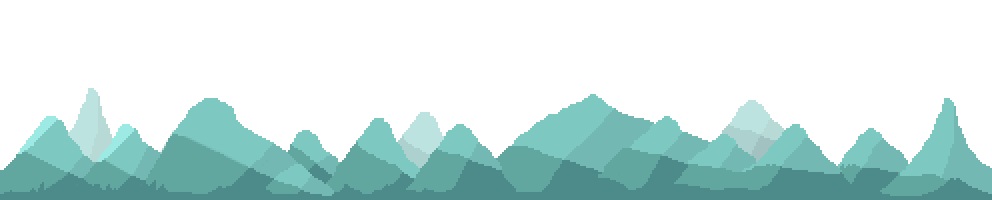
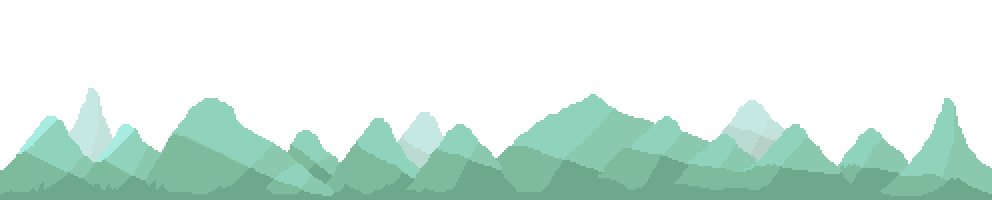
more pages, more styling

Changed region(s): [[0.0, 0.66, 1.0, 1.0]]

diff --git a/client/pages/MainPage/index.jsx b/client/pages/MainPage/index.jsx
@@ -1,23 +1,33 @@
 import React from 'react'
 import Read from '../../assets/img/read.gif'
 import KidCoder from '../../assets/img/kid-coder.png'
+import { Link } from 'react-router-dom'
+
 function index() {
   return (
     <>
-    <div className='d-flex main-page-marketing-block align-items-center'>
+    <div className='d-flex main-page-marketing-block main-page-marketing-block-bg-1 align-items-center'>
       <div className='offset-2 col-4'><img src={KidCoder} className='img-fluid'/></div>
       <div className='col-4 ms-4'>
         <h2 className='main-page-h2'>Play and learn</h2>
         Lorem ipsum dolor sit, amet consectetur adipisicing elit. Aliquam in rem inventore, ex temporibus ipsum. Soluta ea corporis quia recusandae laborum quos iure, praesentium assumenda consectetur obcaecati consequuntur laboriosam. Assumenda?
       </div>
     </div>
-    <div className='d-flex main-page-marketing-block'>
+        <div className='d-flex bg-primary-subtle justify-content-center main-page-buttons align-items-center flex-column'>
+          <h3>Begin to play right now!</h3>
+          <div>
+            <Link to='/story'><button type="button" className="btn btn-warning btn-lg me-4 shadow-sm" data-mdb-ripple-color="#c33232"> Try Story Mode </button></Link>
+            <Link to='/fight'><button type="button" className="btn btn-warning btn-lg shadow-sm" data-mdb-ripple-color="#c33232"> Try Fighting Mode </button></Link>
+          </div>
+    </div>
+    <div className='d-flex main-page-marketing-block main-page-marketing-block-bg-2'>
       <div className='offset-2 col-4 me-4'>
         <h2 className='main-page-h2'>Text-Based Coding</h2>
         Lorem ipsum dolor sit, amet consectetur adipisicing elit. Aliquam in rem inventore, ex temporibus ipsum. Soluta ea corporis quia recusandae laborum quos iure, praesentium assumenda consectetur obcaecati consequuntur laboriosam. Assumenda?
       </div>
       <div className='col-4'><img src={Read}/></div>
     </div>
+
     </>
   )
 }

diff --git a/client/assets/css/App.css b/client/assets/css/App.css
@@ -7,22 +7,36 @@ a {
   text-decoration: none;
 }
 
-.logo, .main-page-h1, .main-page-h2 {
+.logo {
   font-family: 'Kdam Thmor Pro', sans-serif;
 }
 
-.main-block {
+
+.main-page-marketing-block {
+  padding: 8rem 0;
+
+}
+
+.main-page-marketing-block-bg-1 {
+  background: url('../img/bg.png');
+  background-position: top right;
+  background-repeat: no-repeat;
+  background-size: contain;
+}
+
+.main-page-marketing-block-bg-2 {
   background: url('../img/footer-main-page-bg.png');
   background-repeat: repeat-x;
   background-position: bottom;
+  background-color: #FFF2DB;
 }
 
-.main-page-marketing-block {
-  margin: 8rem 0;
+.main-page-buttons {
+  padding: 4rem 0;
 }
 
 .bg-footer {
-  background-color: #4d8b8a;
+  background-color: #67AA83;
 }
 
 .main-page-subheading {
@@ -37,7 +51,8 @@ a {
   background-position: center;
 }
 
-h1, h2 {
+h1, h2, h3 {
+  font-family: 'Kdam Thmor Pro', sans-serif;
   margin-bottom: 2rem;
 }
 
@@ -57,24 +72,35 @@ h1, h2 {
 }
 
 .banner {
-  background-color: #dbfbfe;
+  background-image: url('../img/bnr-bg.gif');
+  background-color: #defbfe;
+  background-size: auto;
+  background-repeat: no-repeat;
+  animation: slidein 12s;
+
+  animation-fill-mode: backwards;
+  animation-iteration-count: infinite;
+  animation-direction: normal
 }
 
-@keyframes logo-spin {
-  from {
-    transform: rotate(0deg);
+@keyframes slidein {
+  0% {
+    background-position: -20% 150px;
+
   }
 
-  to {
-    transform: rotate(360deg);
+  50% {
+    background-position: 50% 50px;
+
   }
+
+  100% {
+    background-position: 130% 150px;
+
+  }
+
 }
 
-@media (prefers-reduced-motion: no-preference) {
-  a:nth-of-type(2) .logo {
-    animation: logo-spin infinite 20s linear;
-  }
-}
 
 .card {
   padding: 2em;

diff --git a/client/components/Banner/Banner.jsx b/client/components/Banner/Banner.jsx
@@ -1,5 +1,6 @@
 import React from 'react'
 import Knight from '../../assets/img/knight.gif'
+import { Link } from 'react-router-dom'
 
 function Banner() {
   return (
@@ -10,9 +11,9 @@ function Banner() {
     <h1 className='main-page-h1 text-left'>Learn how to Code<br/> with Koding Kombat</h1>
     <p className='main-page-subheading'>Koding Kombat  is a competitive programming game where two users engage in a battle of wits by answering challenging programming questions.</p> <p className='main-page-subheading'><b>Players take turns tackling a series of coding challenges</b>, ranging from algorithmic puzzles to debugging exercises.</p>
     <div className='d-flex flex-row align-items-center'>
-    <button type="button" className="btn btn-warning btn-lg me-4" data-mdb-ripple-color="#c33232"> Try Story Mode </button>
-    <button type="button" className="btn btn-warning btn-lg me-4" data-mdb-ripple-color="#c33232"> Fighting Mode </button>
-    <a href="/login">Login</a>
+    <Link to={`/story`}><button type="button" className="btn btn-warning btn-lg me-4" data-mdb-ripple-color="#c33232"> Try Story Mode </button></Link>
+    <Link to={`/fight`}><button type="button" className="btn btn-warning btn-lg me-4" data-mdb-ripple-color="#c33232"> Try Fighting Mode </button></Link>
+    <Link to={`/login`}>Login ›</Link>
     </div>
     </div>
     <div className='col-6 h-100'>

diff --git a/client/components/Header/Header.jsx b/client/components/Header/Header.jsx
@@ -39,10 +39,10 @@ export default function Header() {
             </button>
             <div className="collapse navbar-collapse" id="mainNav">
               <div className="navbar-nav ms-auto">
-                <NavLink className="ms-5 nav-link" to="/">
+                <NavLink className="ms-5 nav-link" to="/story">
                   Story Mode
                 </NavLink>
-                <NavLink className="ms-5 nav-link" to="/account">
+                <NavLink className="ms-5 nav-link" to="/fight">
                   Fight Mode
                 </NavLink>
                 <NavLink className="ms-5 nav-link" to="/login">
@@ -50,6 +50,9 @@ export default function Header() {
                 </NavLink>
                 <NavLink className="ms-5 nav-link" to="/register">
                   Register
+                </NavLink>
+                <NavLink className="ms-5 nav-link" to="/account">
+                  Account
                 </NavLink>
               </div>
             </div>

diff --git a/client/App.jsx b/client/App.jsx
@@ -11,6 +11,17 @@ function App() {
       <Route path="/" element={<Layouts.main />}>
         <Route index element={<Pages.MainPage />} />
       </Route>
+      <Route element={<Layouts.fight />}>
+        <Route path="story" element={<Pages.StoryMode />} />
+        <Route path="fight" element={<Pages.FightingMode />} />
+      </Route>
+      <Route element={<Layouts.auth />}>
+        <Route path="login" element={<Pages.Login />} />
+        <Route path="register" element={<Pages.Register />} />
+      </Route>
+      <Route element={<Layouts.account />}>
+        <Route path="account" element={<Pages.AccountPage />} />
+      </Route>
     </Routes>
   )
 }

diff --git a/client/pages/index.jsx b/client/pages/index.jsx
@@ -10,4 +10,4 @@ export { default as FightingMode } from './FightingMode'
 export { default as Leaderboard } from './Leaderboard'
 
 //Account
-export { default as AccountSettings } from './AccountSettings'
+export { default as AccountPage } from './AccountPage'

diff --git a/client/layouts/account.jsx b/client/layouts/account.jsx
@@ -1,0 +1,17 @@
+import { Outlet } from "react-router-dom";
+import { Header, Footer } from "../components";
+
+function index() {
+  
+  return (
+    <>
+      <Header />
+
+        <Outlet />
+
+      <Footer />
+    </>
+  );
+}
+
+export default index;

diff --git a/client/layouts/auth.jsx b/client/layouts/auth.jsx
@@ -1,0 +1,17 @@
+import { Outlet } from "react-router-dom";
+import { Header, Footer } from "../components";
+
+function index() {
+  
+  return (
+    <>
+      <Header />
+
+        <Outlet />
+
+      <Footer />
+    </>
+  );
+}
+
+export default index;

diff --git a/client/layouts/fight.jsx b/client/layouts/fight.jsx
@@ -1,0 +1,17 @@
+import { Outlet } from "react-router-dom";
+import { Header, Footer } from "../components";
+
+function index() {
+  
+  return (
+    <>
+      <Header />
+
+        <Outlet />
+
+      <Footer />
+    </>
+  );
+}
+
+export default index;

diff --git a/client/layouts/index.jsx b/client/layouts/index.jsx
@@ -1,1 +1,4 @@
 export {default as main} from './main'
+export {default as fight} from './fight'
+export {default as auth} from './auth'
+export {default as account} from './account'
